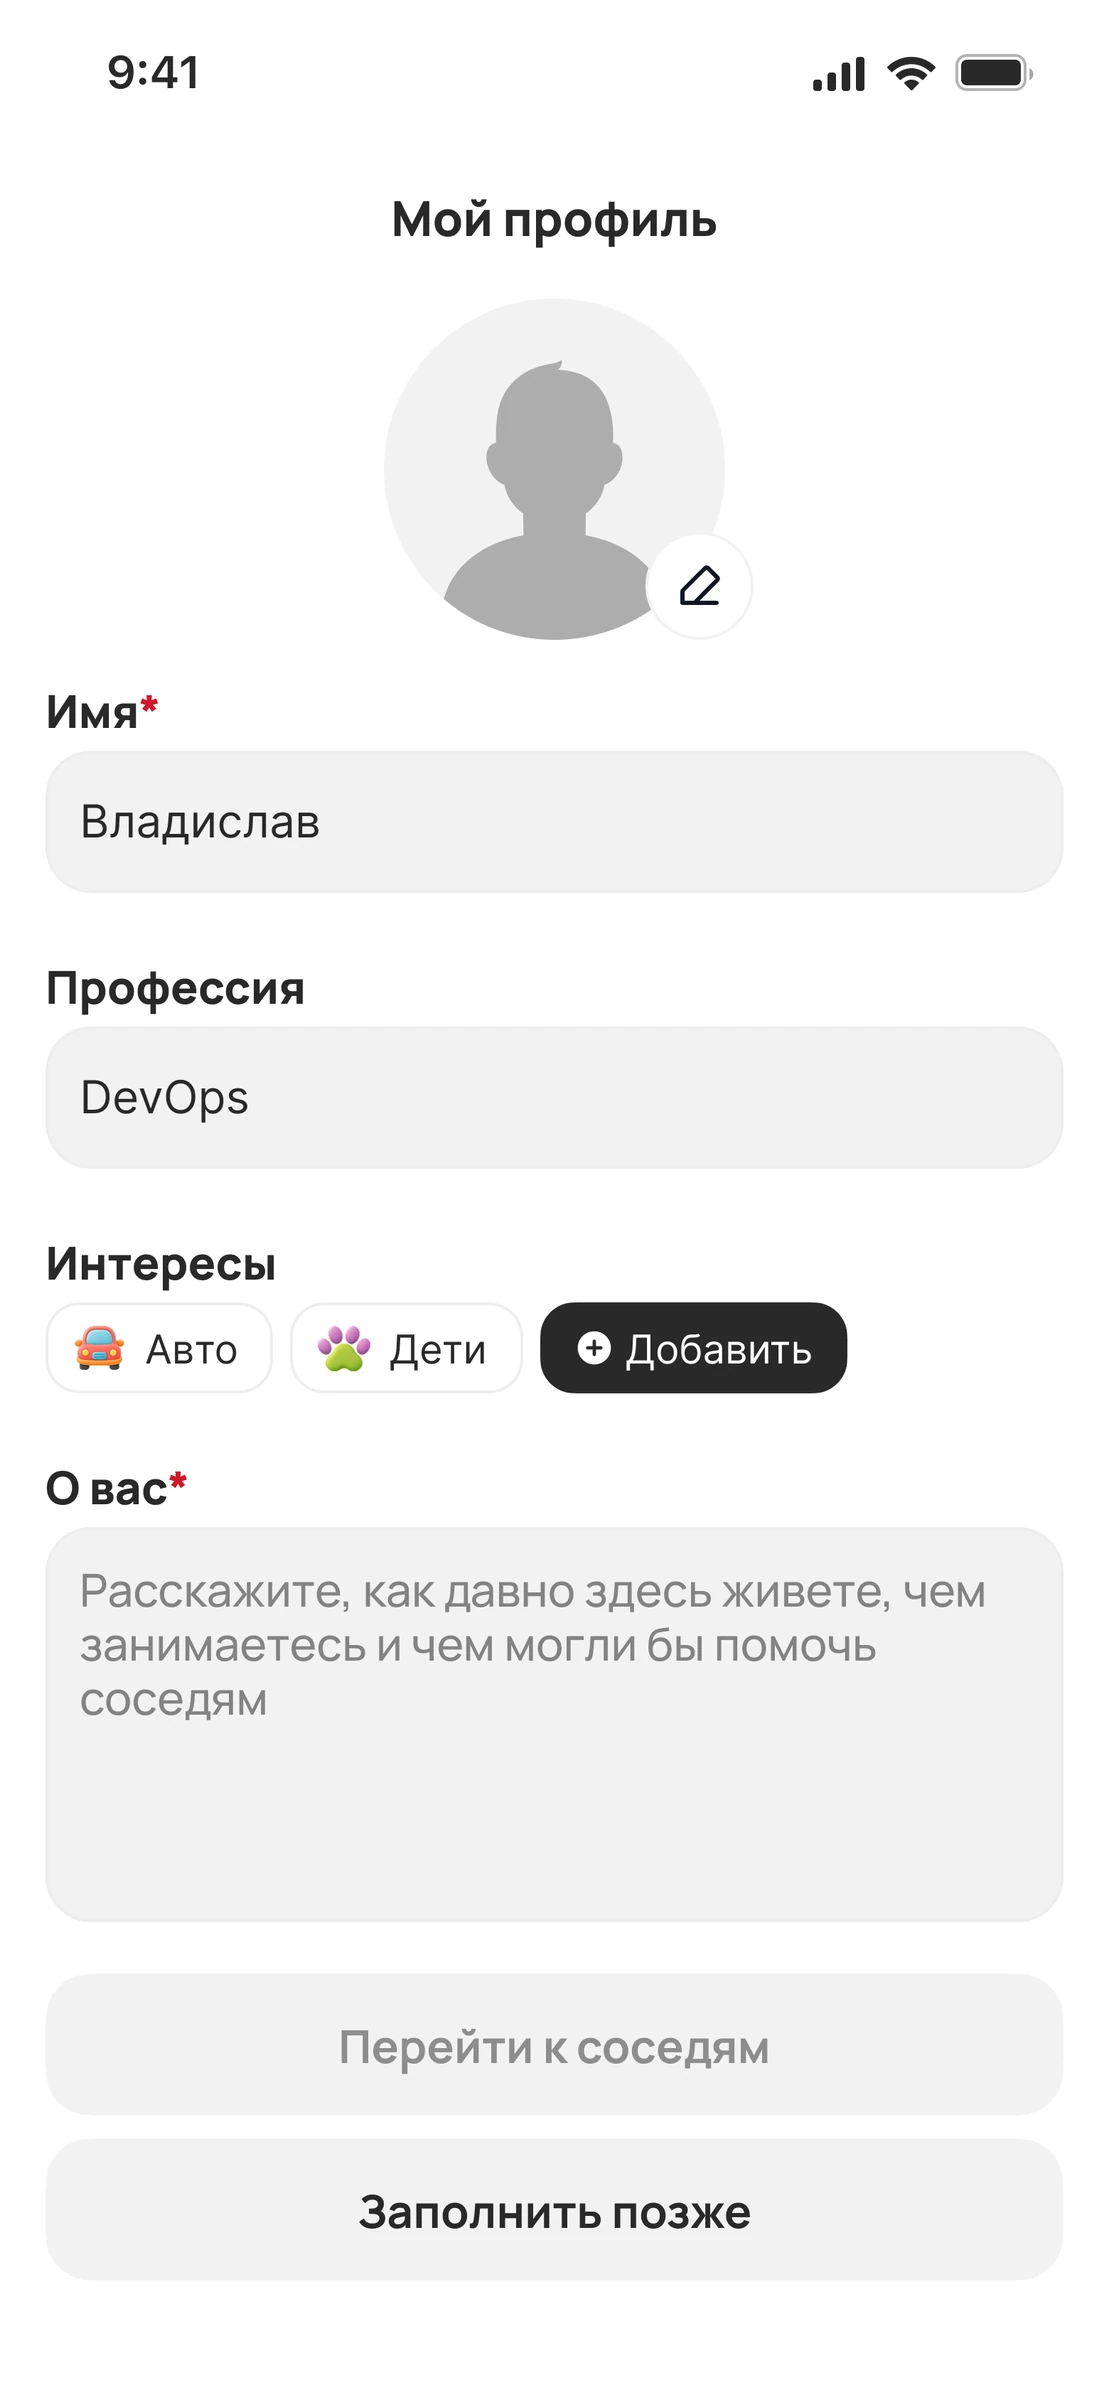
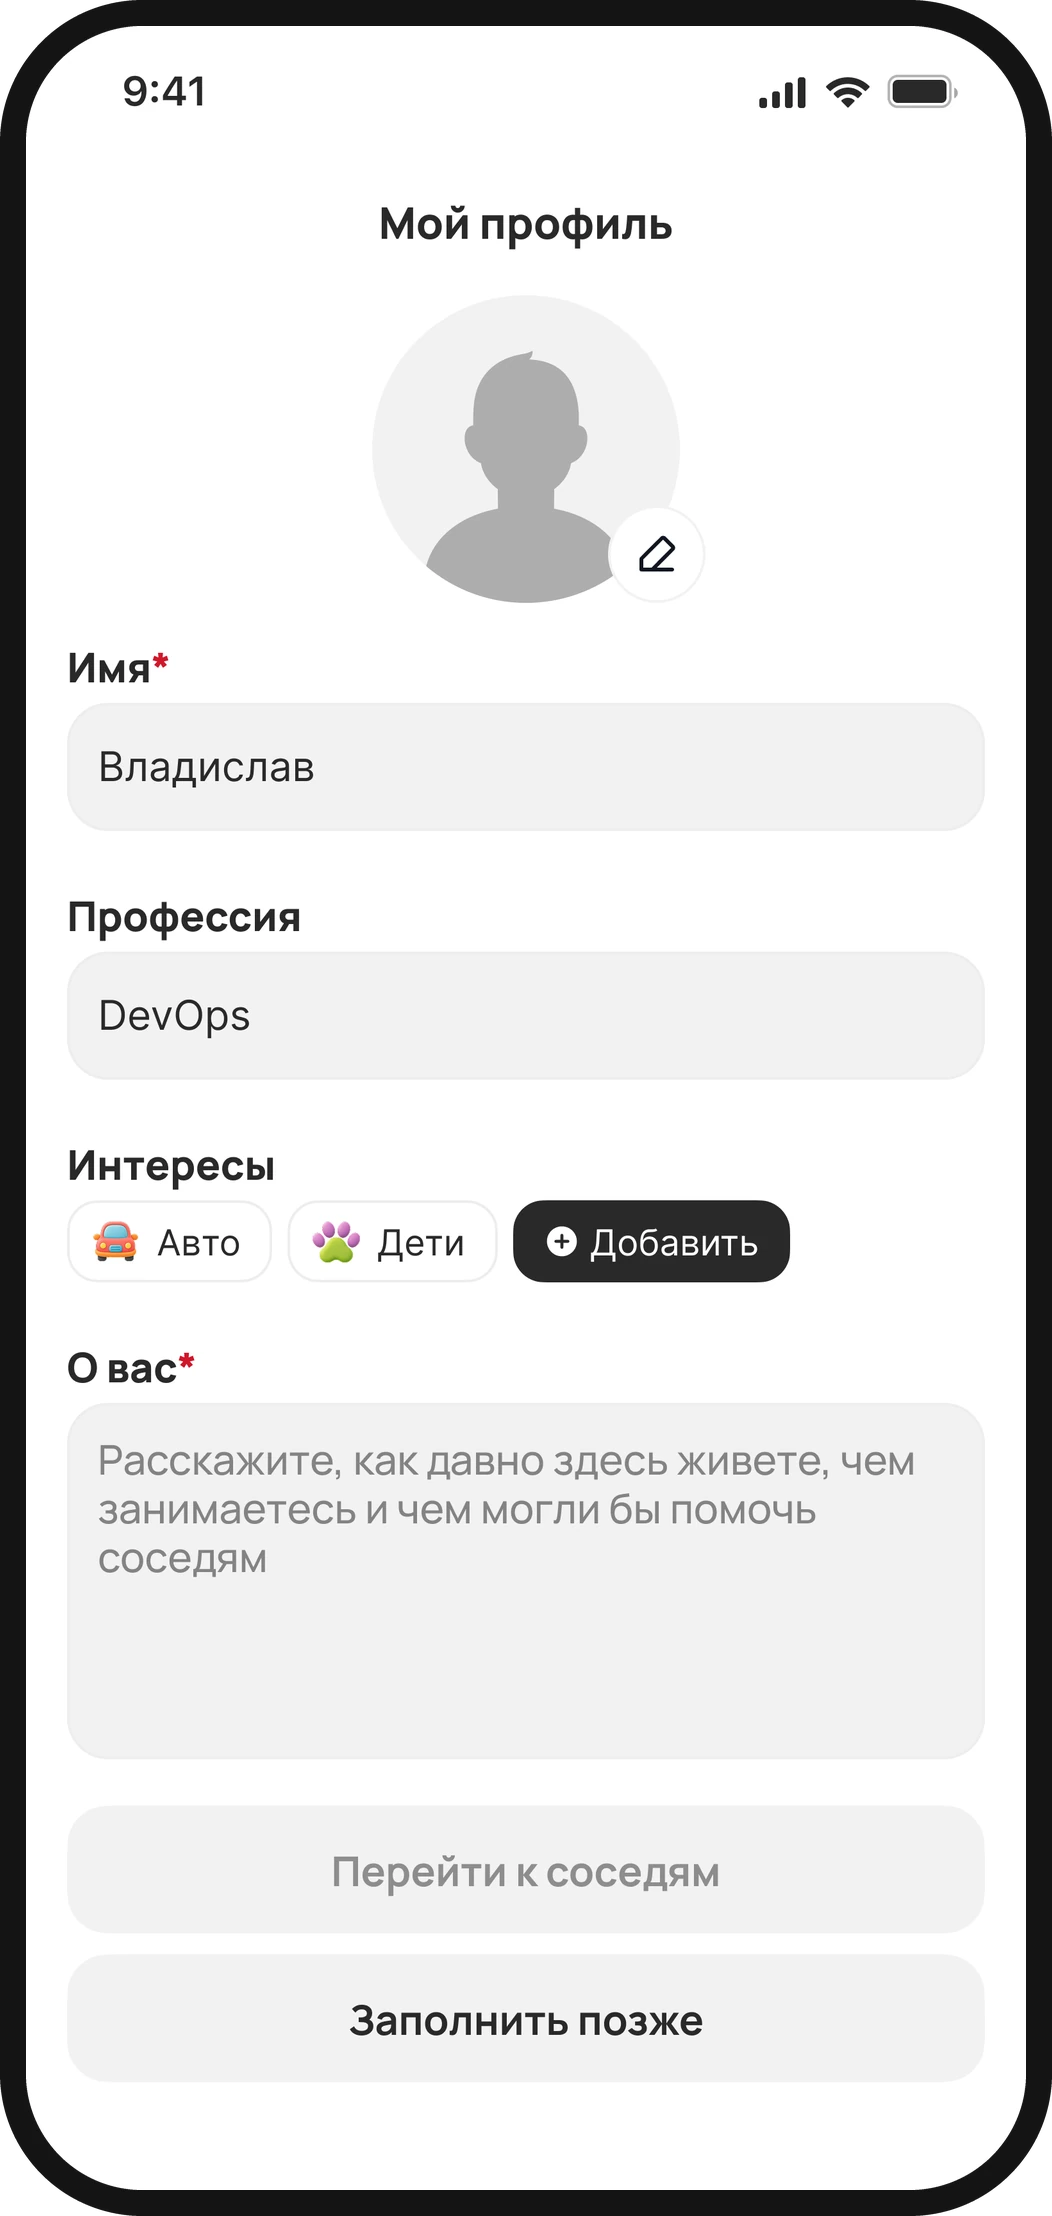
roofly 01: сетка АРМ (экраны слева, текст справа), компактнее + iPhone-корпус запечён в экраны
Убрал полноширинный блок и тёмные рамки: три экрана в левой колонке 1.5fr, sticky-текст справа. Скругления/безель айфона запечены в webp (масштабируются на любом размере), уголки прозрачные.

diff --git a/index.html b/index.html
@@ -441,11 +441,8 @@ footer{padding:28px 56px 44px;display:flex;justify-content:space-between;align-i
 .cs-page .cs-ph-in{max-width:440px;display:flex;flex-direction:column;align-items:center;gap:12px;}
 .cs-page .cs-ph-tag{font-size:14px;font-weight:700;letter-spacing:0.01em;color:#9a9a9a;}
 .cs-page .cs-ph-txt{font-size:16px;color:#8a8a8a;line-height:1.5;}
-.cs-page .cs-block-wide{display:block;}
-.cs-page .cs-block-wide .cs-sticky{position:static;max-width:720px;margin-bottom:32px;}
-.cs-page .rf-triptych{display:grid;grid-template-columns:repeat(3,1fr);gap:24px;align-items:start;}
-.cs-page .rf-shot{display:flex;flex-direction:column;gap:12px;}
-.cs-page .rf-shot-cap{font-size:14px;color:#8a8a8a;line-height:1.4;text-align:center;}
+.cs-page .rf-triptych{display:grid;grid-template-columns:repeat(3,1fr);gap:12px;align-items:start;}
+.cs-page .rf-triptych img{width:100%;height:auto;display:block;cursor:zoom-in;}
 .cs-page .rf-hyp{display:grid;grid-template-columns:1fr 1fr;gap:24px;margin-top:24px;}
 .cs-page .rf-card{background:#EFEFEF;border-radius:16px;padding:24px;}
 .cs-page .rf-card .cs-text,.cs-page .rf-ins .cs-text,.cs-page .rf-card .rf-list li{color:#1a1a1a;}
@@ -469,7 +466,7 @@ footer{padding:28px 56px 44px;display:flex;justify-content:space-between;align-i
 .cs-page .rf-stat-n{font-family:'Inter',sans-serif;font-size:32px;font-weight:700;color:#fff;line-height:1;margin-bottom:8px;}
 .cs-page .rf-stat-t{font-size:16px;color:#999;line-height:1.4;}
 @media(max-width:768px){
-.cs-page .rf-triptych{grid-template-columns:1fr;gap:32px;max-width:360px;margin:0 auto;}
+.cs-page .rf-triptych{gap:10px;}
 .cs-page .rf-hyp,.cs-page .rf-hyp3{grid-template-columns:1fr;row-gap:24px;}
 .cs-page .rf-stats{grid-template-columns:1fr 1fr;}
 .cs-page .cs-ph{min-height:200px;padding:32px 20px;}
@@ -1296,26 +1293,17 @@ footer{padding:28px 56px 44px;display:flex;justify-content:space-between;align-i
 <!-- SOLUTIONS -->
 <div class="cs-screens">
   <div style="padding:0 0 8px"><span class="rf-clab">Решения</span></div>
-  <div class="cs-block cs-block-wide">
+  <div class="cs-block">
+    <div class="rf-triptych">
+      <img src="assets/roofly-feed.webp" onclick="openCsModal(this)" alt="Лента «Рядом со мной»" loading="lazy">
+      <img src="assets/roofly-profile-empty.webp" onclick="openCsModal(this)" alt="Пустой профиль" loading="lazy">
+      <img src="assets/roofly-profile-full.webp" onclick="openCsModal(this)" alt="Заполненный профиль" loading="lazy">
+    </div>
     <div class="cs-sticky">
       <div class="cs-num">01 — Приоритетная лента</div>
       <h3 class="cs-h3">Важное вверху, а&nbsp;профиль мотивирует участвовать</h3>
       <p class="cs-sdesc">Пометку «Важное» ставит только управляющая компания, поэтому объявления о&nbsp;доме не&nbsp;тонут в&nbsp;болтовне, а&nbsp;спам и&nbsp;обсуждения уходят в&nbsp;комментарии под&nbsp;постом. Чтобы писать в&nbsp;ленту, житель заполняет профиль, и&nbsp;я&nbsp;сделала это мягким онбордингом: соседи сразу видят, чем человек может помочь.</p>
       <div class="cs-tags"><span class="cs-tag">Feed</span><span class="cs-tag">Onboarding</span><span class="cs-tag">Profile</span></div>
-    </div>
-    <div class="rf-triptych">
-      <div class="rf-shot">
-        <div class="cs-img"><img src="assets/roofly-feed.webp" onclick="openCsModal(this)" alt="Лента «Рядом со мной»" loading="lazy"></div>
-        <div class="rf-shot-cap">Лента: важное вверху, спам под&nbsp;постом</div>
-      </div>
-      <div class="rf-shot">
-        <div class="cs-img"><img src="assets/roofly-profile-empty.webp" onclick="openCsModal(this)" alt="Пустой профиль" loading="lazy"></div>
-        <div class="rf-shot-cap">Пустой профиль подсказывает заполнить его</div>
-      </div>
-      <div class="rf-shot">
-        <div class="cs-img"><img src="assets/roofly-profile-full.webp" onclick="openCsModal(this)" alt="Заполненный профиль" loading="lazy"></div>
-        <div class="rf-shot-cap">Заполненный: видно, чем сосед может помочь</div>
-      </div>
     </div>
   </div>
   <div class="cs-block">
